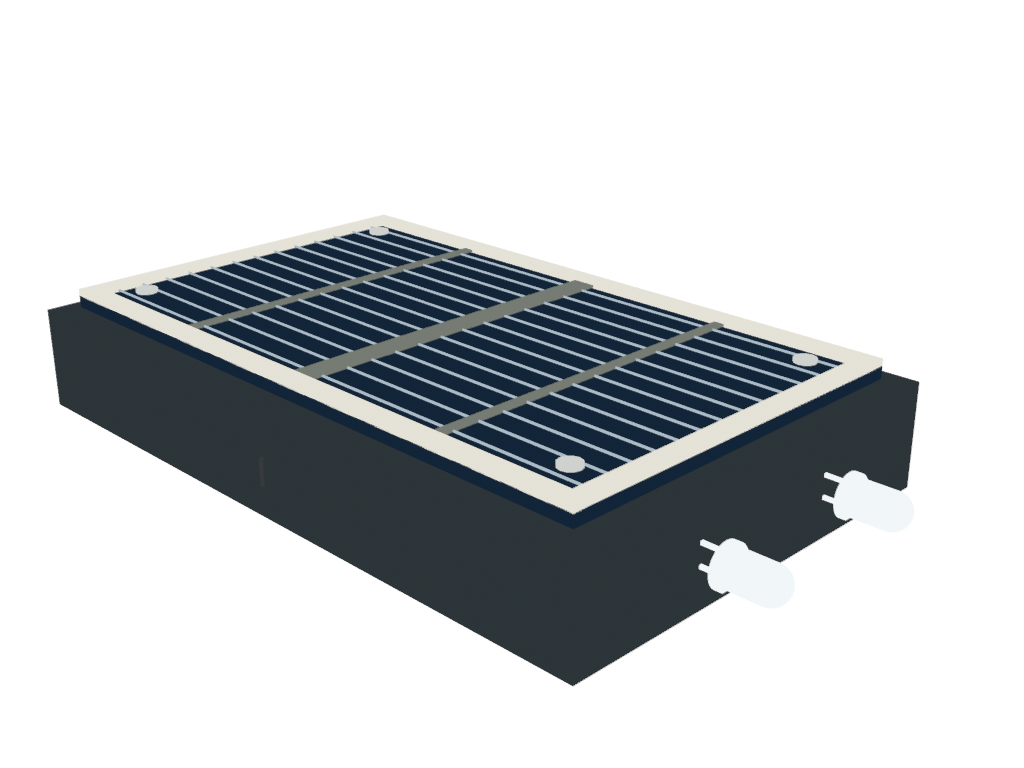
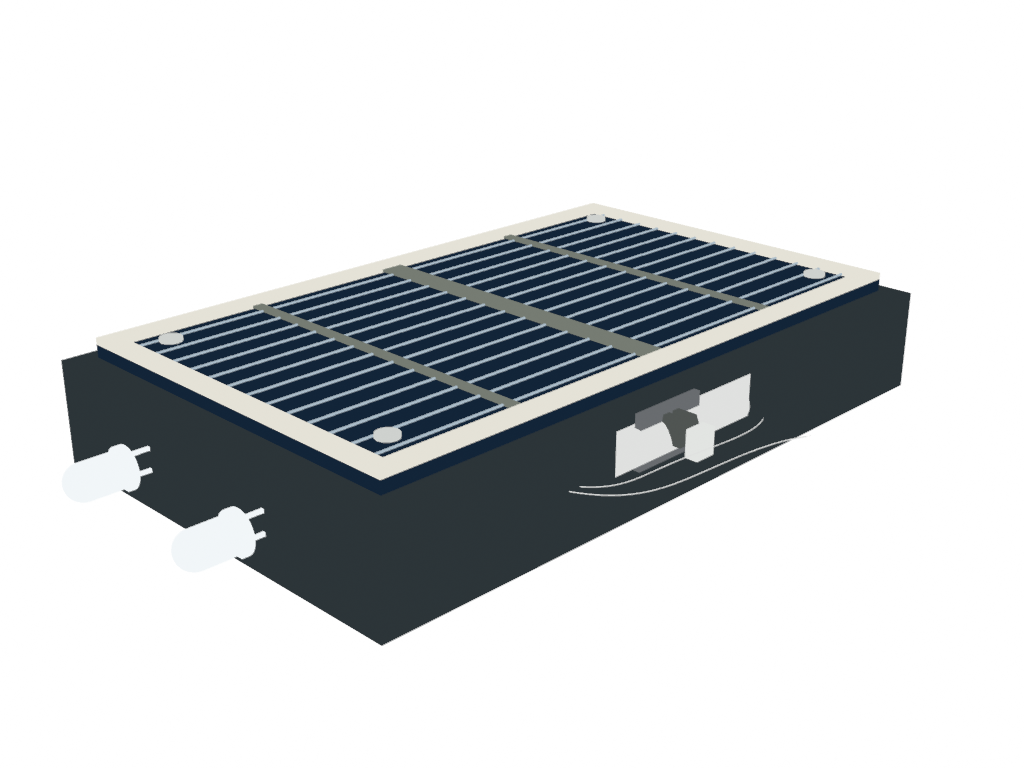
fix(candidate): move switch to visible case recess

Changed region(s): [[0.0312, 0.25, 0.9062, 0.9062]]

diff --git a/tools/build-blender-candidate.py b/tools/build-blender-candidate.py
@@ -191,23 +191,23 @@ def add_led_wire(led, lead_material, side):
 
 def add_switch_details(switch, actuator_material, red_material, black_material):
     # The pass9 mesh remains the authoritative switch body. Its actuator must
-    # project through the positive-Y case-side opening; placing it on local Z
+    # project through the negative-Y case-side opening; placing it on local Z
     # made the side view look like an empty white recess.
     actuator = cube('switch_actuator', (0.0034, 0.0020, 0.0040), (0.0, 0.0, 0.0), actuator_material)
-    parent_detail(actuator, switch, (0.0, 0.0048, 0.0))
-    # Two short inward-running wire cues exiting from the switch's positive-Y
-    # seat toward negative Y into the enclosure.  The switch sits at y ≈ 0.029
-    # (positive-Y case wall); these 3-point polylines drop ~2 mm in Z over a
+    parent_detail(actuator, switch, (0.0, -0.0048, 0.0))
+    # Two short inward-running wire cues exiting from the switch's negative-Y
+    # seat toward positive Y into the enclosure. The switch sits at y ≈ -0.029
+    # (negative-Y case wall); these 3-point polylines drop ~2 mm in Z over a
     # ~6 mm Y run so they read as short leads routed into the shell interior.
     wire_detail('switch_red_wire', switch, [
         (0.0008, 0.0, 0.0024),
-        (0.0008, -0.003, 0.0016),
-        (0.0008, -0.006, 0.0010),
+        (0.0008, 0.003, 0.0016),
+        (0.0008, 0.006, 0.0010),
     ], red_material, bevel=0.00028)
     wire_detail('switch_black_wire', switch, [
         (-0.0008, 0.0, 0.0024),
-        (-0.0008, -0.003, 0.0016),
-        (-0.0008, -0.006, 0.0010),
+        (-0.0008, 0.003, 0.0016),
+        (-0.0008, 0.006, 0.0010),
     ], black_material, bevel=0.00028)
 
 def add_led_details(led, die_material):
@@ -427,10 +427,12 @@ def main():
     sw = import_stl(SWITCH, 'switch', scale=BLENDER_MM)
     set_mat(sw, switchmat)
     center_mesh_origin(sw)
-    # Seat the switch against the positive-Y case wall. Keeping its body
+    # Seat the switch against the negative-Y case wall identified by the user
+    # as the long pale recess beneath the parts disclosure in the product view.
+    # Keeping its body
     # centered on the wall edge makes the control read as physically mounted
     # in the closed three-quarter view instead of floating inside the shell.
-    sw.location = (0.0, 0.029, 0.0)
+    sw.location = (0.0, -0.029, 0.0)
     add_switch_details(sw, actuator_mat, wire_red, wire_black)
 
     switch_surround_mat = mat('SwitchSurround', (0.14, 0.15, 0.16), roughness=0.55)
@@ -438,9 +440,9 @@ def main():
     # Parent to the enclosure so the surround follows the case shell through
     # the closed and exploded poses.  Convert the switch's world seat to the
     # enclosure's local coordinates and align the bracket's positive-Y face
-    # flush with the switch's positive-Y seating edge.
+    # flush with the switch's negative-Y seating edge.
     parent_detail(switch_surround, enclosure, tuple(Vector(sw.location) - enclosure.location))
-    switch_surround.location.y -= 0.0006
+    switch_surround.location.y += 0.0006
 
     parts = [enclosure, panel, battery, charge, led_a, led_b, sw]
     seats = {p.name: tuple(p.location) for p in parts}

diff --git a/tools/verify-blender-candidate.py b/tools/verify-blender-candidate.py
@@ -91,10 +91,17 @@ switch_actuator = next(child for child in parts['switch'].children
                        if child.name.split('.')[0] == 'switch_actuator')
 actuator_dims_ok, actuator_dims = dimensions_match_obj(
     switch_actuator, (0.0034, 0.0020, 0.0040), tolerance=0.0001)
-if not actuator_dims_ok or switch_actuator.location.y < 0.004:
-    fail('switch actuator does not protrude through positive-Y case opening: dims=%s location=%s'
+if not actuator_dims_ok or switch_actuator.location.y > -0.004:
+    fail('switch actuator does not protrude through negative-Y case opening: dims=%s location=%s'
          % (actuator_dims, tuple(switch_actuator.location)))
 passed('switch actuator protrudes through the case-side opening')
+
+scene = bpy.context.scene
+scene.frame_set(1)
+if abs(parts['switch'].location.x) > 0.001 or abs(parts['switch'].location.y + 0.029) > 0.001:
+    fail('switch is not seated in the user-identified negative-Y case opening: %s'
+         % (tuple(parts['switch'].location),))
+passed('switch is seated on the user-identified case wall')
 
 def led_die_child(part):
     for child in parts[part].children:

diff --git a/tools/render-blender-candidate-review.py b/tools/render-blender-candidate-review.py
@@ -81,10 +81,11 @@ def main():
     cam_obj = bpy.data.objects.new("ReviewCamera", cam_data)
     scene.collection.objects.link(cam_obj)
 
-    # View from the negative-X short end so both LED heads remain visible.
+    # View from the negative-X short end and negative-Y wall so both LED heads
+    # and the user-identified switch opening remain visible in the audit render.
     cam_distance = radius * 2.8
     elevation = math.radians(22)
-    azimuth = math.radians(135)
+    azimuth = math.radians(-135)
     cam_pos = Vector((
         center.x + cam_distance * math.cos(elevation) * math.cos(azimuth),
         center.y + cam_distance * math.cos(elevation) * math.sin(azimuth),
